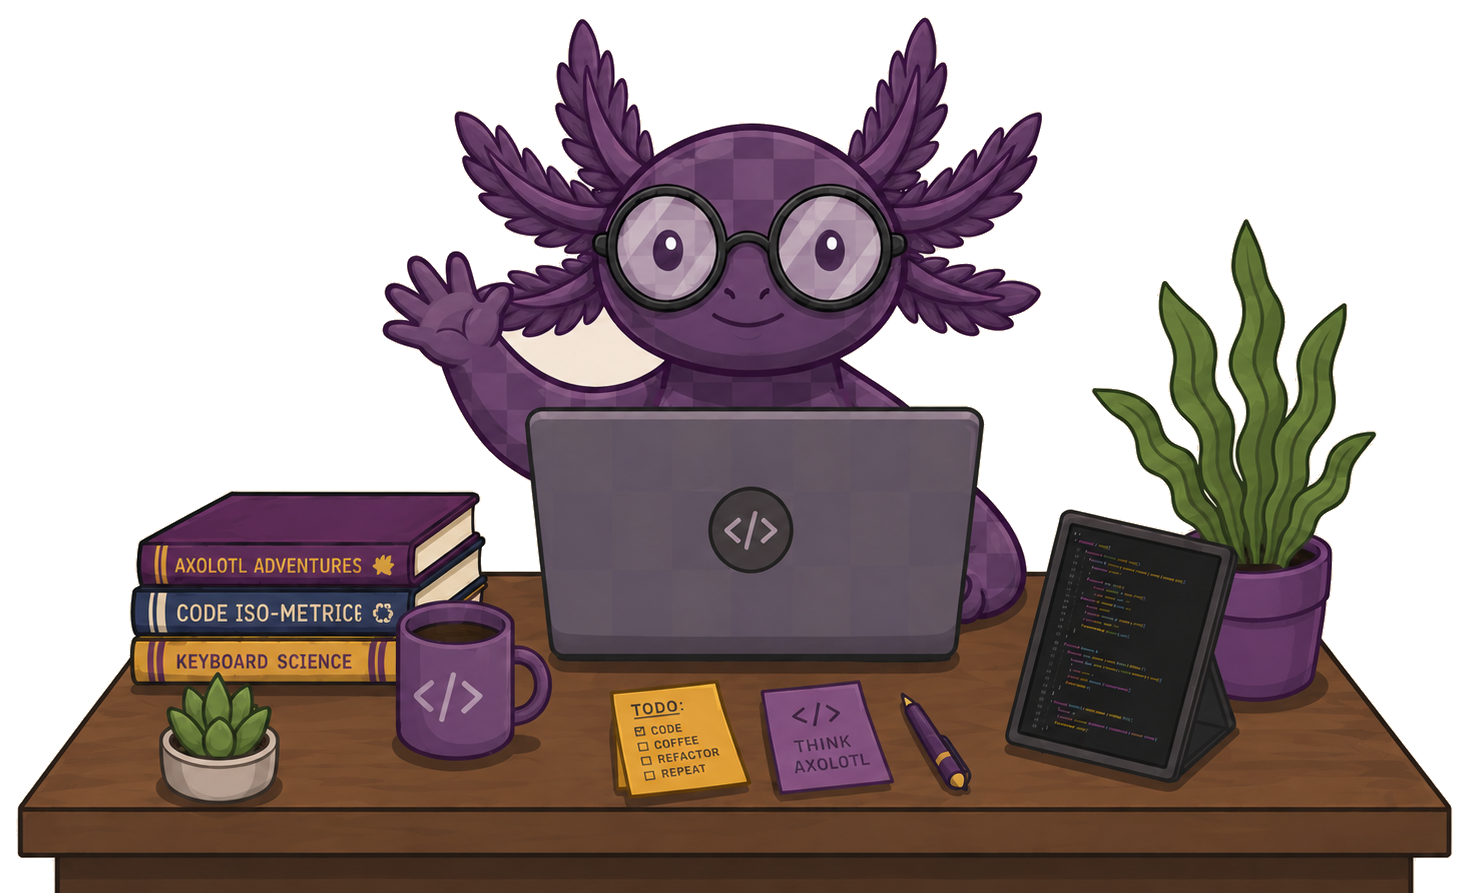
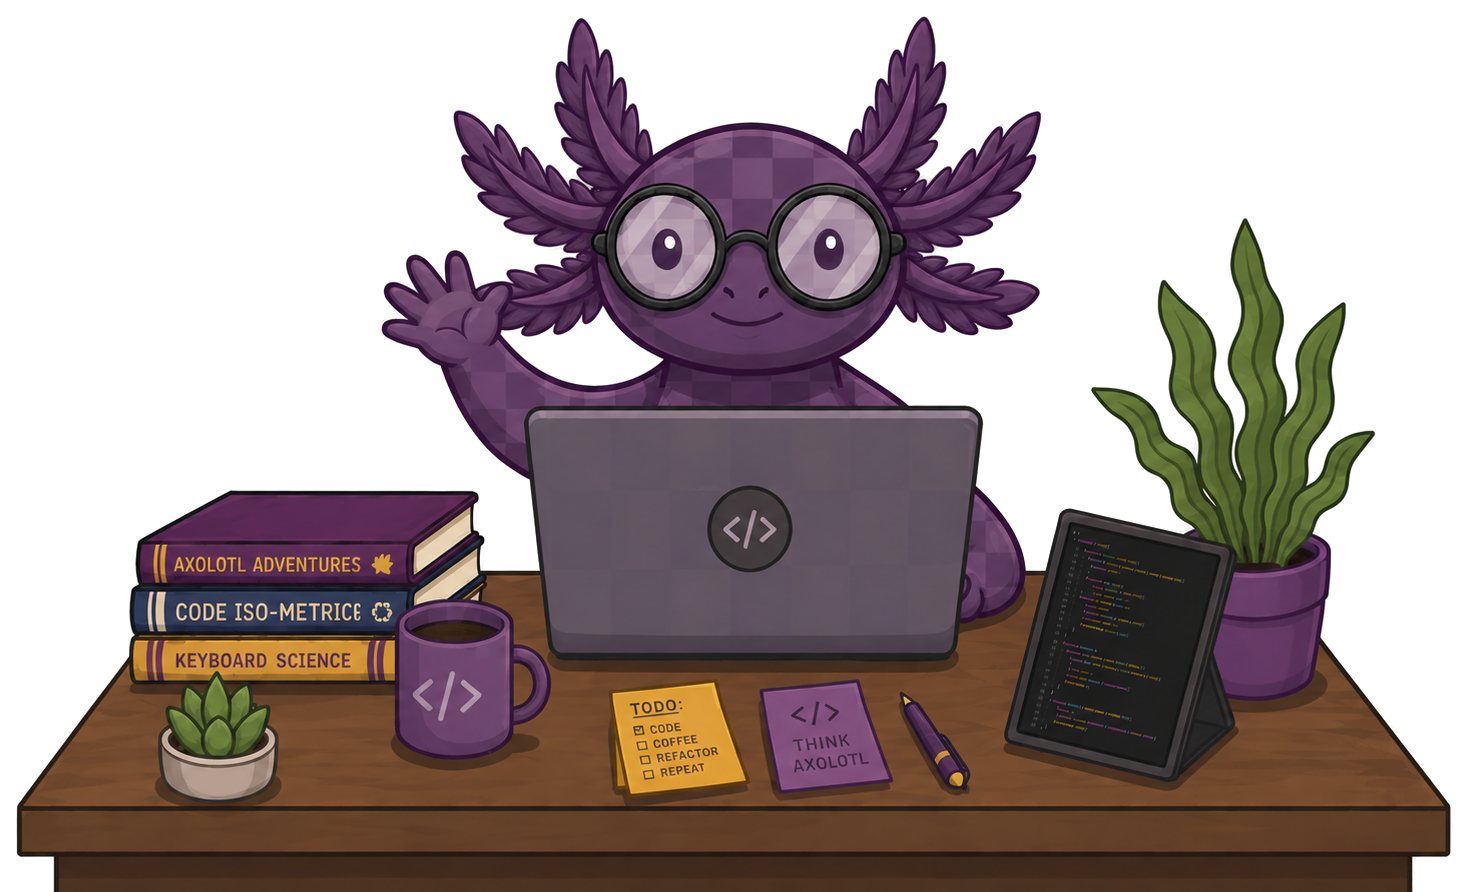
fix(web): re-process hero mascot with rembg (no halo on dark chrome)
First pass used PIL flood-fill, which left a visible dark halo around
the figure when composited on the page's dark Memphis chrome — the
line-art outline anti-aliased against cream survived the threshold.

Re-process with rembg (isnet-general-use ONNX) + alpha matting:
- alpha_matting_foreground_threshold=240, background_threshold=15,
  erode_size=11
- post-clean: alpha < 12 → 0, alpha > 250 → 255 (kill speckles, firm
  interior); ~1 % of pixels keep partial alpha for the actual edge
  feather

Verified by compositing on dark purple bg — no halo visible.
Cropped result: 1469×892 RGBA (~1 MB). brand.ts height bumped 893→892
to match the new pixel-perfect bbox.

diff --git a/apps/web/lib/brand.ts b/apps/web/lib/brand.ts
@@ -31,6 +31,6 @@ export const BRAND: BrandConfig = {
   mascotHeroSrc: '/mascot-hero.png',
   mascotHeroAlt: 'Damo UI mascot — a purple axolotl coding on a laptop at a desk',
   mascotHeroWidth: 1469,
-  mascotHeroHeight: 893,
+  mascotHeroHeight: 892,
   repoUrl: 'https://github.com/simoneschioppo/damo-ui',
 }